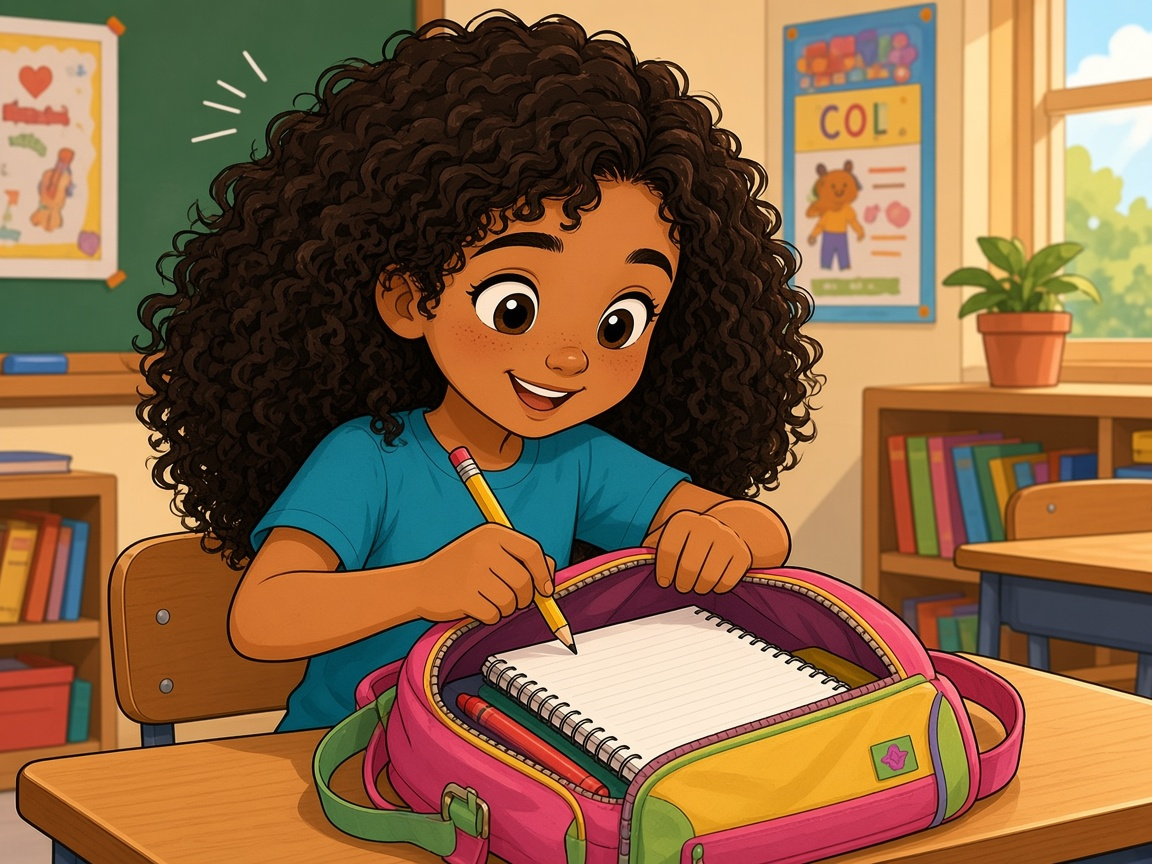
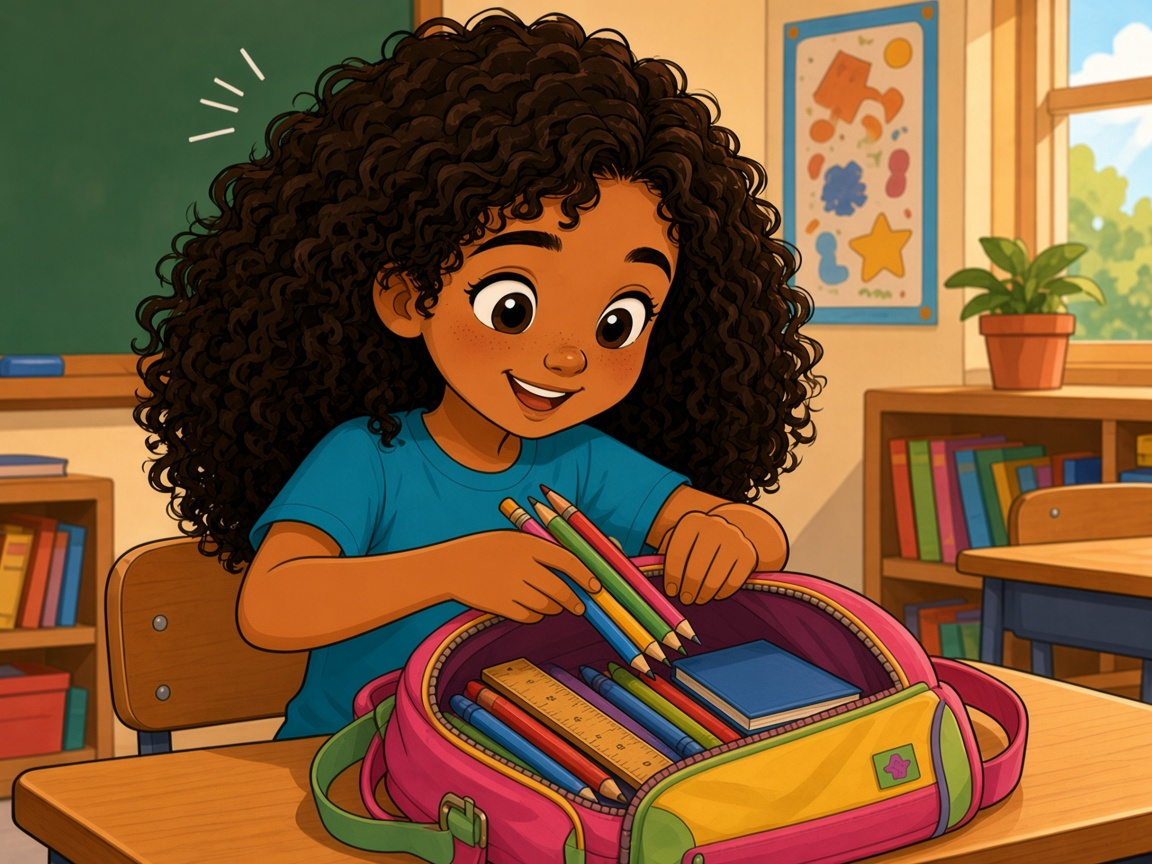
Pedir el nombre del jugador y celebrar los aciertos
- Campo "¿Cómo te llamas?" en la pantalla de título; el nombre se guarda en localStorage
- La mascota y la voz felicitan al jugador por su nombre
- Celebración al acertar: fanfarria, confeti con estrellas y cartel "¡BRAVO!"
- Actualiza la imagen escuela-utiles.jpg

diff --git a/src/screens/PlayScreen.tsx b/src/screens/PlayScreen.tsx
@@ -14,45 +14,96 @@ import { useGame } from '../game/useGame'
 type Props = {
   placeId: PlaceId
   audio: AudioApi
+  name: string
   onBack: () => void
   onPlaceDone: () => void
 }
 
-export function PlayScreen({ placeId, audio, onBack, onPlaceDone }: Props) {
+export function PlayScreen({ placeId, audio, name, onBack, onPlaceDone }: Props) {
   const game = useGame(placeId)
   const place = PLACES.find((item) => item.id === placeId)
   const done = completedInPlace(placeId)
   const total = totalInPlace(placeId)
 
+  const cleanName = name.trim()
+
   const mascotLine = useMemo(() => {
     if (!game.exercise) return '¡Ya terminaste este lugar!'
-    if (game.feedback === 'right') return `¡Muy bien! ${game.exercise.correct.join(' ')}.`
+    if (game.feedback === 'right') {
+      const praise = cleanName ? `¡Muy bien, ${cleanName}!` : '¡Muy bien!'
+      return `${praise} ${game.exercise.correct.join(' ')}.`
+    }
     if (game.feedback === 'wrong') return 'Casi. Mira la tacha. Las que sí van se quedan.'
     if (game.hintLevel >= 1) return game.hintQuestion
     if (game.slots.some(Boolean)) return 'Esas sí van. Completa las que faltan.'
     return 'Mira la foto y elige las palabras.'
-  }, [game.exercise, game.feedback, game.hintLevel, game.hintQuestion, game.slots])
+  }, [cleanName, game.exercise, game.feedback, game.hintLevel, game.hintQuestion, game.slots])
 
   const mascotMood =
     game.feedback === 'right' ? 'happy' : game.feedback === 'wrong' ? 'oops' : game.hintLevel ? 'hint' : 'idle'
 
   useEffect(() => {
     if (game.feedback !== 'right' || !game.exercise) return
-    audio.playSuccess()
-    audio.speak(game.exercise.correct.join(' '))
+    audio.playCelebration()
+    const phrase = game.exercise.correct.join(' ')
+    audio.speak(cleanName ? `¡Bravo ${cleanName}! ${phrase}` : `¡Bravo! ${phrase}`)
+
     const reduce = window.matchMedia('(prefers-reduced-motion: reduce)').matches
-    if (!reduce) {
+    if (reduce) return
+
+    const colors = ['#ff6b57', '#ffd56a', '#63c070', '#7b9cff', '#ff8ad8', '#ffffff']
+    // Estallido inicial grande desde el centro
+    void confetti({
+      particleCount: 160,
+      spread: 100,
+      startVelocity: 55,
+      scalar: 1.3,
+      origin: { y: 0.5 },
+      colors,
+    })
+    // Estrellas que saltan
+    void confetti({
+      particleCount: 50,
+      spread: 120,
+      startVelocity: 45,
+      scalar: 1.6,
+      shapes: ['star'],
+      origin: { y: 0.4 },
+      colors: ['#ffd56a', '#ffffff', '#ff8ad8'],
+    })
+
+    // Lluvia continua desde los lados durante ~2.5 s
+    const end = Date.now() + 2500
+    const interval = window.setInterval(() => {
+      if (Date.now() > end) {
+        window.clearInterval(interval)
+        return
+      }
       void confetti({
-        particleCount: 90,
+        particleCount: 40,
+        angle: 60,
         spread: 70,
-        origin: { y: 0.45 },
-        colors: ['#ff6b57', '#ffd56a', '#63c070', '#7b9cff'],
+        startVelocity: 60,
+        scalar: 1.2,
+        origin: { x: 0, y: 0.7 },
+        colors,
       })
-    }
+      void confetti({
+        particleCount: 40,
+        angle: 120,
+        spread: 70,
+        startVelocity: 60,
+        scalar: 1.2,
+        origin: { x: 1, y: 0.7 },
+        colors,
+      })
+    }, 250)
+
     return () => {
+      window.clearInterval(interval)
       confetti.reset()
     }
-  }, [audio, game.exercise, game.feedback])
+  }, [audio, cleanName, game.exercise, game.feedback])
 
   if (!game.exercise) {
     return (
@@ -81,6 +132,25 @@ export function PlayScreen({ placeId, audio, onBack, onPlaceDone }: Props) {
   return (
     <div className="sky-bg relative flex h-full flex-col overflow-auto px-4 py-3">
       <Sky />
+      {game.feedback === 'right' && (
+        <div className="pointer-events-none fixed inset-0 z-50 flex flex-col items-center justify-center gap-4">
+          <div className="celebrate-pop flex items-center gap-3 text-7xl md:text-8xl">
+            <span className="star-jump">🎉</span>
+            <span className="star-jump" style={{ animationDelay: '0.15s' }}>
+              ⭐
+            </span>
+            <span className="star-jump" style={{ animationDelay: '0.3s' }}>
+              🎊
+            </span>
+            <span className="star-jump" style={{ animationDelay: '0.45s' }}>
+              🌟
+            </span>
+          </div>
+          <p className="celebrate-pop rounded-[2rem] border-4 border-ink bg-sun px-8 py-3 text-5xl font-bold text-ink shadow-[0_8px_0_#2a1848] md:text-7xl">
+            {cleanName ? `¡BRAVO, ${cleanName.toUpperCase()}!` : '¡BRAVO!'}
+          </p>
+        </div>
+      )}
       <header className="relative z-10 mb-3 flex flex-wrap items-center justify-between gap-3">
         <button
           type="button"

diff --git a/src/screens/TitleScreen.tsx b/src/screens/TitleScreen.tsx
@@ -1,13 +1,24 @@
+import { useState } from 'react'
 import type { AudioApi } from '../audio/useAudio'
 import { MuteButton } from '../components/MuteButton'
 import { Sky } from '../components/Sky'
+import { saveName } from '../game/progress'
 
 type Props = {
   audio: AudioApi
-  onPlay: () => void
+  name: string
+  onPlay: (name: string) => void
 }
 
-export function TitleScreen({ audio, onPlay }: Props) {
+export function TitleScreen({ audio, name, onPlay }: Props) {
+  const [value, setValue] = useState(name)
+
+  function handlePlay() {
+    const clean = value.trim()
+    saveName(clean)
+    onPlay(clean)
+  }
+
   return (
     <div className="sky-bg relative flex h-full flex-col items-center justify-center overflow-hidden px-6">
       <Sky />
@@ -26,10 +37,25 @@ export function TitleScreen({ audio, onPlay }: Props) {
       <p className="mt-3 max-w-lg text-center text-2xl font-semibold text-ink/90">
         Mira la foto y arma la frase
       </p>
+      <label className="mt-6 flex flex-col items-center gap-2">
+        <span className="text-2xl font-bold text-ink">¿Cómo te llamas?</span>
+        <input
+          type="text"
+          value={value}
+          onChange={(event) => setValue(event.target.value)}
+          onKeyDown={(event) => {
+            if (event.key === 'Enter') handlePlay()
+          }}
+          maxLength={16}
+          placeholder="Tu nombre"
+          autoComplete="off"
+          className="min-h-14 w-72 rounded-full border-4 border-ink bg-white px-6 text-center text-2xl font-bold text-ink shadow-[0_4px_0_#2a1848] placeholder:text-ink/40 focus:outline-none"
+        />
+      </label>
       <button
         type="button"
-        onClick={onPlay}
-        className="mt-8 min-h-16 rounded-full border-4 border-ink bg-sun px-12 text-3xl font-bold text-ink shadow-[0_6px_0_#2a1848] hover:translate-y-0.5"
+        onClick={handlePlay}
+        className="mt-6 min-h-16 rounded-full border-4 border-ink bg-sun px-12 text-3xl font-bold text-ink shadow-[0_6px_0_#2a1848] hover:translate-y-0.5"
       >
         Jugar
       </button>

diff --git a/src/audio/useAudio.ts b/src/audio/useAudio.ts
@@ -91,6 +91,39 @@ export function useAudio() {
     tone(ctx, 784, now + 0.24, 0.28, 'triangle', 0.1)
   }, [getCtx, muted])
 
+  const playCelebration = useCallback(async () => {
+    if (muted) return
+    const ctx = await getCtx()
+    stopMusic()
+    const now = ctx.currentTime
+
+    // Arpegio ascendente alegre (do-mi-sol-do-mi-sol agudos)
+    const arpeggio = [523, 659, 784, 1047, 1319, 1568]
+    arpeggio.forEach((freq, i) => {
+      const start = now + i * 0.1
+      tone(ctx, freq, start, 0.18, 'triangle', 0.09)
+      tone(ctx, freq / 2, start, 0.18, 'sine', 0.03)
+    })
+
+    // Acorde final sostenido (do mayor)
+    const chordAt = now + arpeggio.length * 0.1 + 0.05
+    tone(ctx, 523, chordAt, 0.7, 'triangle', 0.08)
+    tone(ctx, 659, chordAt, 0.7, 'triangle', 0.07)
+    tone(ctx, 784, chordAt, 0.7, 'triangle', 0.07)
+    tone(ctx, 1047, chordAt, 0.7, 'sine', 0.06)
+
+    // Brillos agudos encadenados
+    const sparkles = [1760, 2093, 1760, 2349, 2093, 2637]
+    sparkles.forEach((freq, i) => {
+      tone(ctx, freq, chordAt + 0.15 + i * 0.09, 0.1, 'sine', 0.05)
+    })
+
+    // Reanudar la música de fondo cuando termina la fanfarria
+    window.setTimeout(() => {
+      if (!muted && started.current) void playMusic()
+    }, 2200)
+  }, [getCtx, muted, playMusic, stopMusic])
+
   const playError = useCallback(async () => {
     if (muted) return
     const ctx = await getCtx()
@@ -148,8 +181,17 @@ export function useAudio() {
   }, [stopMusic])
 
   return useMemo(
-    () => ({ muted, toggleMute, unlock, playClick, playSuccess, playError, speak }),
-    [muted, toggleMute, unlock, playClick, playSuccess, playError, speak],
+    () => ({
+      muted,
+      toggleMute,
+      unlock,
+      playClick,
+      playSuccess,
+      playCelebration,
+      playError,
+      speak,
+    }),
+    [muted, toggleMute, unlock, playClick, playSuccess, playCelebration, playError, speak],
   )
 }
 

diff --git a/src/App.tsx b/src/App.tsx
@@ -1,7 +1,7 @@
 import { useState } from 'react'
 import { useAudio } from './audio/useAudio'
 import type { PlaceId } from './data/types'
-import { allComplete } from './game/progress'
+import { allComplete, loadName } from './game/progress'
 import { MapScreen } from './screens/MapScreen'
 import { PlayScreen } from './screens/PlayScreen'
 import { ResultScreen } from './screens/ResultScreen'
@@ -13,6 +13,7 @@ export default function App() {
   const audio = useAudio()
   const [screen, setScreen] = useState<Screen>('title')
   const [placeId, setPlaceId] = useState<PlaceId | null>(null)
+  const [name, setName] = useState<string>(loadName)
 
   function goPlace(place: PlaceId) {
     setPlaceId(place)
@@ -32,7 +33,9 @@ export default function App() {
       {screen === 'title' && (
         <TitleScreen
           audio={audio}
-          onPlay={() => {
+          name={name}
+          onPlay={(playerName) => {
+            setName(playerName)
             void audio.unlock()
             setScreen('map')
           }}
@@ -51,6 +54,7 @@ export default function App() {
         <PlayScreen
           placeId={placeId}
           audio={audio}
+          name={name}
           onBack={() => setScreen('map')}
           onPlaceDone={afterPlace}
         />

diff --git a/src/index.css b/src/index.css
@@ -181,12 +181,53 @@ button:focus-visible {
   animation: hint-shake 0.85s ease-in-out 2;
 }
 
+@keyframes celebrate-pop {
+  0% {
+    transform: scale(0.3) rotate(-10deg);
+    opacity: 0;
+  }
+  55% {
+    transform: scale(1.15) rotate(4deg);
+    opacity: 1;
+  }
+  70% {
+    transform: scale(0.95) rotate(-2deg);
+  }
+  100% {
+    transform: scale(1) rotate(0deg);
+    opacity: 1;
+  }
+}
+
+@keyframes star-jump {
+  0%,
+  100% {
+    transform: translateY(0) scale(1);
+  }
+  40% {
+    transform: translateY(-28px) scale(1.25);
+  }
+  60% {
+    transform: translateY(-10px) scale(1.1);
+  }
+}
+
+.celebrate-pop {
+  animation: celebrate-pop 0.6s ease-out;
+}
+
+.star-jump {
+  animation: star-jump 0.9s ease-in-out infinite;
+}
+
 @media (prefers-reduced-motion: reduce) {
   .floaty,
   .wiggle,
   .shake,
   .stamp-in,
   .hint-shake,
+  .celebrate-pop,
+  .star-jump,
   .cloud {
     animation: none !important;
   }

diff --git a/src/game/progress.ts b/src/game/progress.ts
@@ -2,6 +2,23 @@ import { EXERCISES, exercisesByPlace } from '../data/exercises'
 import type { PlaceId } from '../data/types'
 
 const KEY = 'frases-en-accion-v1'
+const NAME_KEY = 'frases-en-accion-name'
+
+export function loadName(): string {
+  try {
+    return localStorage.getItem(NAME_KEY) ?? ''
+  } catch {
+    return ''
+  }
+}
+
+export function saveName(name: string) {
+  try {
+    localStorage.setItem(NAME_KEY, name.trim())
+  } catch {
+    // ignore storage errors
+  }
+}
 
 export type Stats = {
   correct: number
